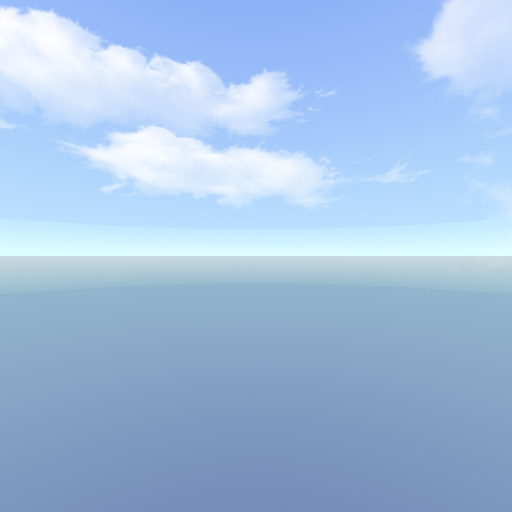
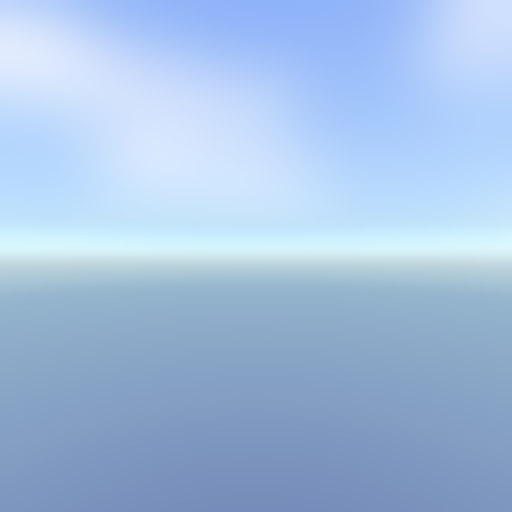
Style + Skybox fixes
Fixed up font styles for people and watch page, line page should not fit well in smaller screens (sweep not media queries), photoshopped clouds out of the skybox images

diff --git a/src/styles/mobile/pages/people_page.scss b/src/styles/mobile/pages/people_page.scss
@@ -104,6 +104,10 @@ $HEADSHOT_WIDTH: (100vw - 3*$SIDE_MARGIN)/2;
     overflow-y: auto;
     padding-bottom: 15vh;
 
+    .MuiAccordionSummary-content{
+      margin: 8px 0;
+    }
+
     .Mui-expanded {
       margin: 0;
       padding: 0;
@@ -114,7 +118,7 @@ $HEADSHOT_WIDTH: (100vw - 3*$SIDE_MARGIN)/2;
       text-transform: uppercase;
       letter-spacing: $FONT_SPRAT_KERN;
       font-weight: $FONT_SPRAT_WEIGHT;
-      font-size: 2em;
+      font-size: 2.5em;
       margin: 0;
       padding: 0;
     }
@@ -196,7 +200,6 @@ $HEADSHOT_WIDTH: (100vw - 3*$SIDE_MARGIN)/2;
     .tab-body {
       width: 100vw - $X_MARGIN;
       padding: 0;
-      padding-top: 40px;
       flex-direction: row;
       justify-content: flex-start;
       flex-wrap: wrap;
@@ -213,6 +216,19 @@ $HEADSHOT_WIDTH: (100vw - 3*$SIDE_MARGIN)/2;
       }
 
       .notPictured {
+        margin-bottom: 35px;
+
+        h2 {          
+          font-family: $FONT_DISPLAY;
+          font-weight: $FONT_WEIGHT_REGULAR;
+          font-size: 1.5em;
+          letter-spacing: -.05em;
+          word-spacing: $HEADER_WORD_SPACING;
+          text-transform: uppercase;
+          margin-top: 10px;
+          margin-bottom: 10px;
+        }
+
         p {
           text-transform: uppercase;
           font-size: 14px;

diff --git a/src/styles/desktop/components/people_page.scss b/src/styles/desktop/components/people_page.scss
@@ -97,6 +97,10 @@
     z-index: $Z_INDEX_MAIN_UI;
     padding-bottom: 200px;
 
+    .MuiAccordionSummary-content{
+      padding: 10px 0;
+    }
+
     .Mui-expanded {
       margin: 0;
       padding: 0;
@@ -211,15 +215,22 @@
       }
 
       .notPictured {
+        margin-bottom: 30px;
+
         h2 {
+          font-family: $FONT_DISPLAY;
+          font-weight: $FONT_WEIGHT_REGULAR;
+          font-size: 1.8em;
+          letter-spacing: -.05em;
+          word-spacing: $HEADER_WORD_SPACING;
+          text-transform: uppercase;
           margin-bottom: 10px;
-          font-size: 46;
         }
 
         p {
+          font-size: $FONT_SIZE_BODY;
           text-transform: uppercase;
-          font-size: 18;
-          margin-bottom: 2px;
+          margin-bottom: -1px;
         }
       }
 
@@ -240,7 +251,7 @@
         .name {
           text-transform: uppercase;
           font-weight: 500;
-          font-size: 18px;
+          font-size: $FONT_SIZE_BODY;
           margin: 0;
           margin-top: 1em;
         }
@@ -248,7 +259,7 @@
         .title {
           text-transform: uppercase;
           font-weight: 300;
-          font-size: 18px;
+          font-size: $FONT_SIZE_BODY;
           margin: 0;
         }
       }

diff --git a/src/styles/fonts.scss b/src/styles/fonts.scss
@@ -21,23 +21,24 @@
 // Font families
 $FONT_DISPLAY: 'Sprat Type Condensed';
 $FONT_SUBHEAD: 'Overpass Mono', monospace;
-$FONT_BODY: 'franklin-gothic-urw', sans-serif;;
+$FONT_BODY: 'franklin-gothic-urw', sans-serif;
 
 // Font sizes
 $FONT_SIZE_NAV: 2em; // changed from 38px
-$FONT_SIZE_LINK: 2vh; //changed from 24px
+$FONT_SIZE_LINK: 1.1em; //changed from 24px
 $FONT_SIZE_LINE: 12vh; // changed from 114px
-$FONT_SIZE_DESIGNER: 3vh;
+$FONT_SIZE_DESIGNER: 1.4em;
 $FONT_SIZE_TITLE: 48px;
-$FONT_SIZE_BODY: 23px;
-$FONT_SIZE_LABEL: $FONT_SIZE_LINK;
+$FONT_SIZE_BODY: 1em;
+$FONT_SIZE_LINEHEIGHT: 1.2em;
+$FONT_SIZE_LABEL: 1.3em; //See more
 $FONT_SIZE_LINE_PAGE_NAME: 12vh;
 
 // font adjustments and weights
 $FONT_SPRAT_KERN: -0.1em;
 $FONT_SPRAT_WEIGHT: 200;
 $FONT_WEIGHT_LIGHT: 400;
+$FONT_WEIGHT_REGULAR: 600;
 $FONT_TITLE_WEIGHT: 400;
 $FONT_LINK_WEIGHT: 400;
-//$FONT_LABEL_WEIGHT: 400;
 $FONT_WEIGHT_REGULAR: 600;

diff --git a/src/styles/desktop/pages/line_page.scss b/src/styles/desktop/pages/line_page.scss
@@ -180,7 +180,7 @@ $PICTURE_LEFT_MARGIN: 3vw;
         font-family: $FONT_SUBHEAD;
         font-weight: $FONT_SPRAT_WEIGHT;
         text-transform: uppercase;
-        font-size: 1.5em;
+        font-size: $FONT_SIZE_DESIGNER;
       }
 
       #right-bar {
@@ -215,7 +215,7 @@ $PICTURE_LEFT_MARGIN: 3vw;
         margin-top: 5vh;
         font-family: $FONT_BODY;
         font-size: $FONT_SIZE_BODY;
-        line-height: 26px;
+        line-height: $FONT_SIZE_LINEHEIGHT;
       }
 
       #models {

diff --git a/src/styles/desktop/index.scss b/src/styles/desktop/index.scss
@@ -39,7 +39,7 @@ h1{
   font-family: 'Sprat Type Condensed';
   font-weight: 100;
 	font-size: 4em;
-	letter-spacing: -.11em;
+	letter-spacing: -.1em;
 	word-spacing: .1em;
 	margin-bottom: 0;
 	text-transform: uppercase;
@@ -50,7 +50,7 @@ h2 {
   font-family: 'Sprat Type Condensed';
   font-weight: normal;
 	font-size: 1.5em;
-	letter-spacing: -.01em;
+	letter-spacing: -.1em;
 	margin-top: 0;
 	margin-bottom: 1em;
 	text-transform: uppercase;

diff --git a/src/styles/desktop/components/landing_page.scss b/src/styles/desktop/components/landing_page.scss
@@ -99,10 +99,10 @@ $SEE_MORE_BOTTOM_MARGIN: 12px;
         #line-name {
           font-family: $FONT_DISPLAY;
           font-size: $FONT_SIZE_LINE;
-          text-transform: uppercase;
           font-weight: $FONT_WEIGHT_LIGHT;
           letter-spacing: $FONT_SPRAT_KERN;
           word-spacing: $HEADER_WORD_SPACING;
+          text-transform: uppercase;
           pointer-events: none;
         }
 

diff --git a/src/constants.js b/src/constants.js
@@ -174,4 +174,4 @@ export const IRIDESCENCE_SETTINGS_OUTLINE = {
 };
 
 /** @brief Date of the show. Used in the watch page to calculate the countdown. */
-export const SHOW_DATE = new Date(Date.parse("15 Apr 2021 19:00:00 EDT"));
+export const SHOW_DATE = new Date(Date.parse("10 Apr 2021 19:00:00 EDT"));

diff --git a/src/styles/desktop/components/watch_page.scss b/src/styles/desktop/components/watch_page.scss
@@ -56,8 +56,8 @@ $SUBTEXT_LETTER_SPACING: -0.07em;
 
       .number {
         font-family: 'Sprat Type Condensed';
-        font-size: 14.4vw;
-        font-weight: 300;
+        font-size: 11em;
+        font-weight: 400;
         letter-spacing: $SUBTEXT_LETTER_SPACING;
       }
 

diff --git a/src/styles/mobile/pages/line_page.scss b/src/styles/mobile/pages/line_page.scss
@@ -202,8 +202,8 @@ $SLIDE_AMOUNT_B: -14.38vw;
       width: 100%;
       margin-top: 16.2vw;
       font-family: $FONT_BODY;
-      font-weight: 400;
-      font-size: 5vw;
+      font-weight: $FONT_WEIGHT_LIGHT;
+      font-size: $FONT_SIZE_BODY;
     }
 
     #left-bar {
